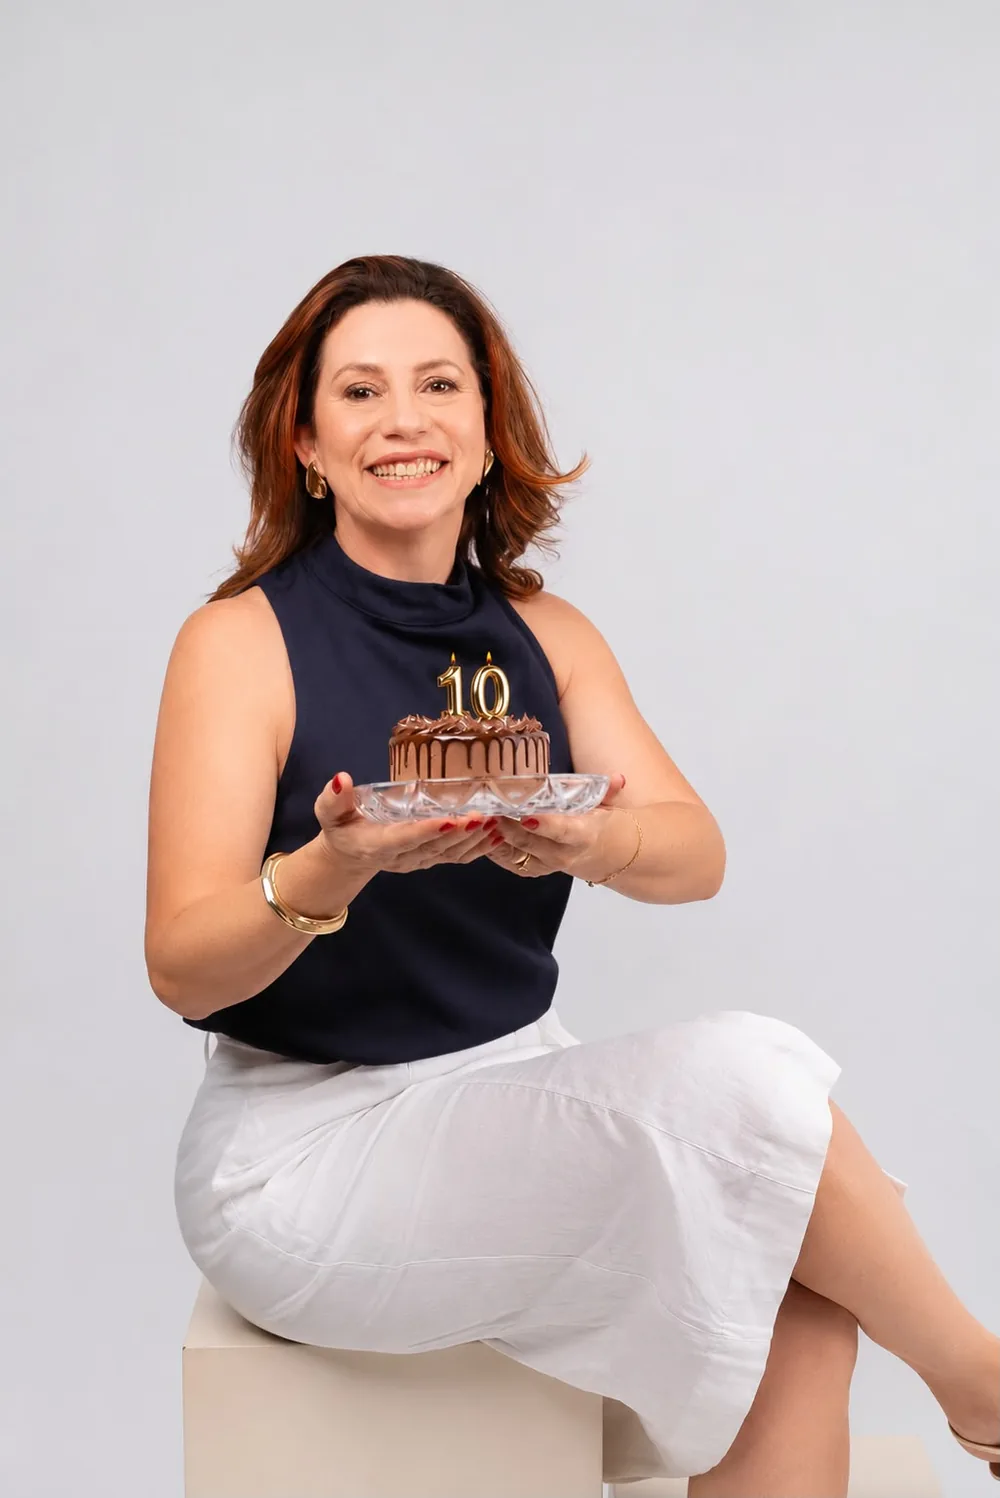
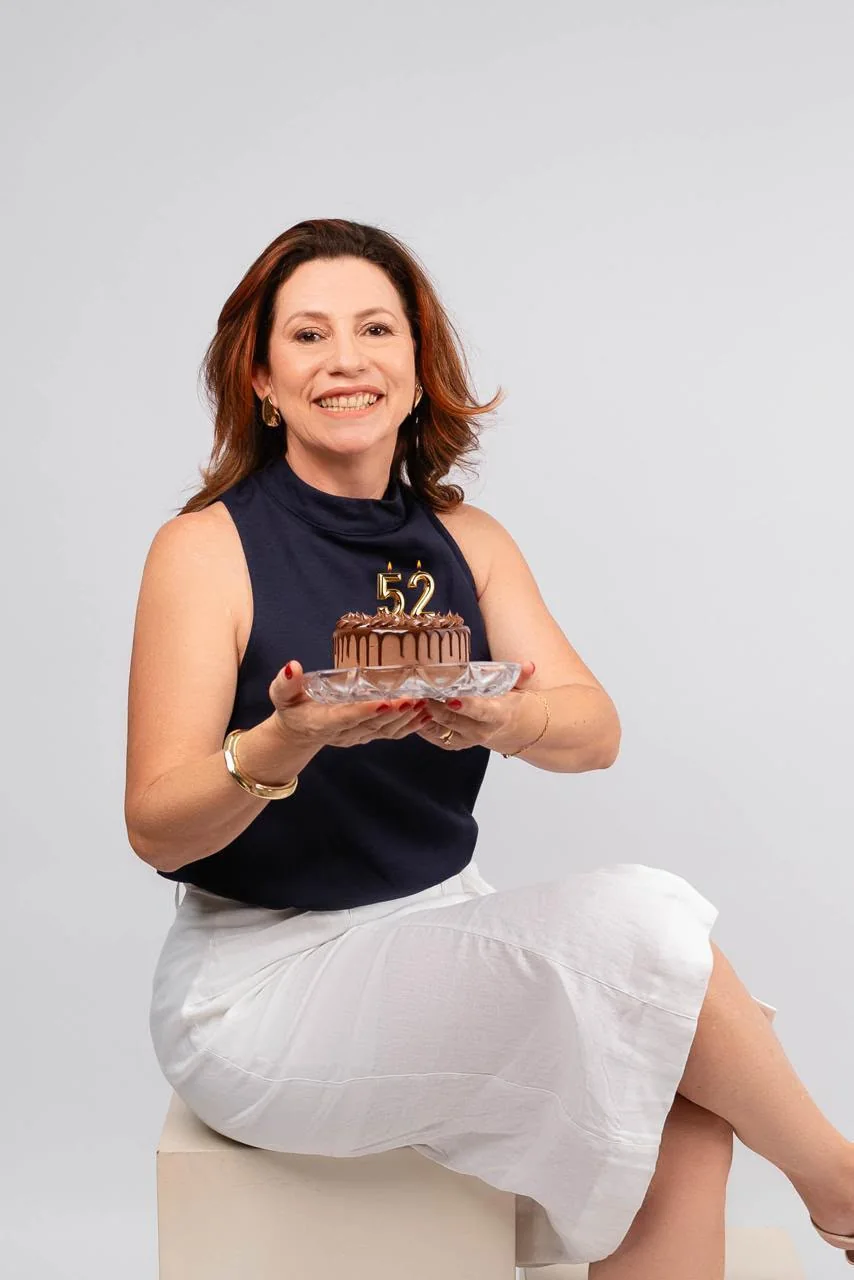
angela-lp: novas fotos (Sobre e G1) + bloco ESTRATÉGIA direciona ao formulário

diff --git a/angela-lp/index.html b/angela-lp/index.html
@@ -350,7 +350,7 @@ footer{background:var(--navy);color:rgba(255,255,255,.75);padding:50px 0 24px;fo
       <br><a href="#contato" class="btn">Conversar com a Ângela</a>
     </div>
     <div class="about-photo reveal">
-      <img class="slot-img" src="img/angela-sobre.webp" alt="Ângela Rodrigues em seu escritório" width="800" height="1000" loading="lazy">
+      <img class="slot-img" src="img/angela-sobre.webp" alt="Ângela Rodrigues" width="920" height="1150" loading="lazy">
     </div>
   </div>
 </section>
@@ -413,7 +413,7 @@ footer{background:var(--navy);color:rgba(255,255,255,.75);padding:50px 0 24px;fo
   <div class="container g1-grid">
     <div class="g1-media reveal">
       <!-- IMAGEM 3: img/angela-g1.webp -->
-      <img class="slot-img" src="img/angela-g1.webp" alt="Ângela Rodrigues celebrando 10 anos de carreira" width="1000" height="1498" loading="lazy" style="object-position:50% 30%">
+      <img class="slot-img" src="img/angela-g1.webp" alt="Ângela Rodrigues" width="854" height="1280" loading="lazy" style="object-position:50% 30%">
       <div class="img-slot"><svg viewBox="0 0 24 24"><rect x="3" y="4" width="18" height="16" rx="2"/><circle cx="9" cy="10" r="2"/><path d="M21 16l-5-5-9 9"/></svg><b>Imagem da matéria no G1</b><span>Print da matéria ou foto · horizontal 4:3</span></div>
     </div>
     <div class="reveal">
@@ -439,8 +439,8 @@ footer{background:var(--navy);color:rgba(255,255,255,.75);padding:50px 0 24px;fo
   <div class="container reveal">
     <span class="eyebrow" style="color:#fff;opacity:.85">O melhor da saúde em nossas mãos</span>
     <blockquote>“Cuidar de pessoas é mais do que minha profissão — é meu propósito de vida.”</blockquote>
-    <p>Para sua empresa ou sua família: mande <b>ESTRATÉGIA</b> no WhatsApp e eu analiso com você as opções que fazem sentido de verdade.</p>
-    <a class="btn wa-link" href="#" data-msg="ESTRATÉGIA">Enviar ESTRATÉGIA</a>
+    <p>Para sua empresa ou sua família: preencha o formulário e eu analiso com você as opções que fazem sentido de verdade.</p>
+    <a class="btn wa-link" href="#contato">Quero minha análise</a>
   </div>
 </section>
 
@@ -585,7 +585,6 @@ const waUrl = m => `https://wa.me/${WA}?text=${encodeURIComponent(m)}`;
 document.querySelectorAll('.wa-link').forEach(a=>{a.href='#contato';a.addEventListener('click',e=>{
   e.preventDefault();
   const f=document.getElementById('simForm');f.scrollIntoView({behavior:'smooth',block:'center'});
-  if(a.dataset.msg==='ESTRATÉGIA')window.__estrategia=true;
   setTimeout(()=>document.getElementById('nome').focus({preventScroll:true}),600);
 })});
 document.getElementById('yr').textContent = new Date().getFullYear();
@@ -593,7 +592,7 @@ document.getElementById('yr').textContent = new Date().getFullYear();
 document.getElementById('simForm').addEventListener('submit', e=>{
   e.preventDefault();
   const v = id => document.getElementById(id).value.trim();
-  const msg = `Olá Ângela! Quero uma simulação.\n\nNome: ${v('nome')}\nTelefone: ${v('tel')}\nE-mail: ${v('email')||'-'}\nTipo: ${v('tipo')}\nVidas: ${v('vidas')||'-'}${window.__estrategia?'\n\nESTRATÉGIA':''}`;
+  const msg = `Olá Ângela! Quero uma simulação.\n\nNome: ${v('nome')}\nTelefone: ${v('tel')}\nE-mail: ${v('email')||'-'}\nTipo: ${v('tipo')}\nVidas: ${v('vidas')||'-'}`;
   window.open(waUrl(msg), '_blank');
 });
 
